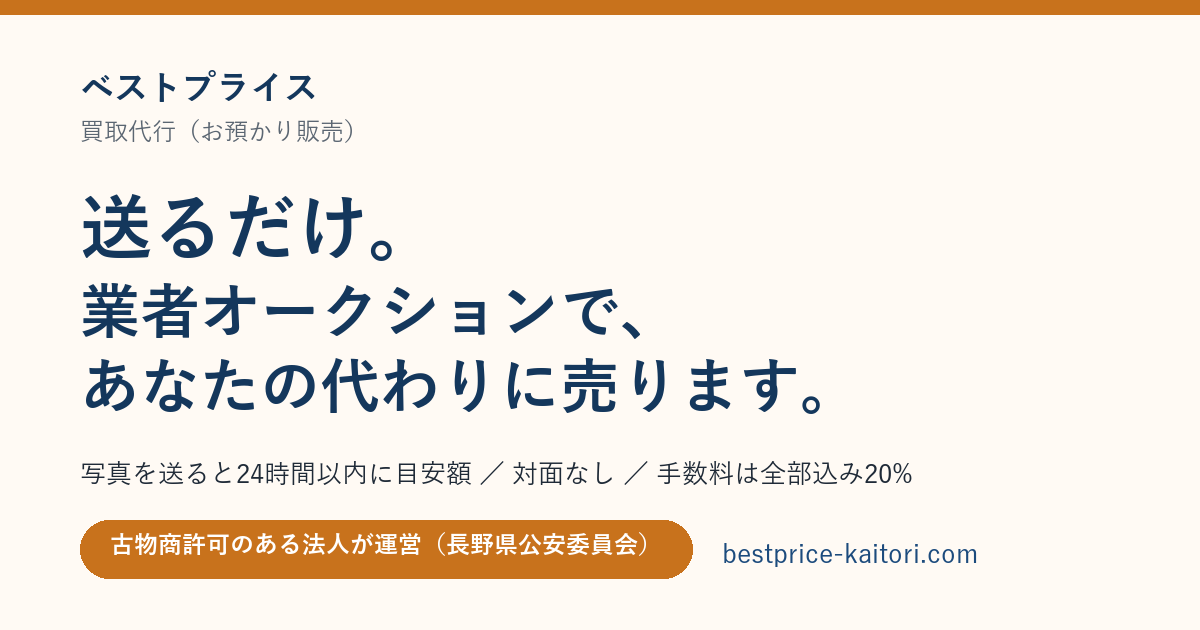
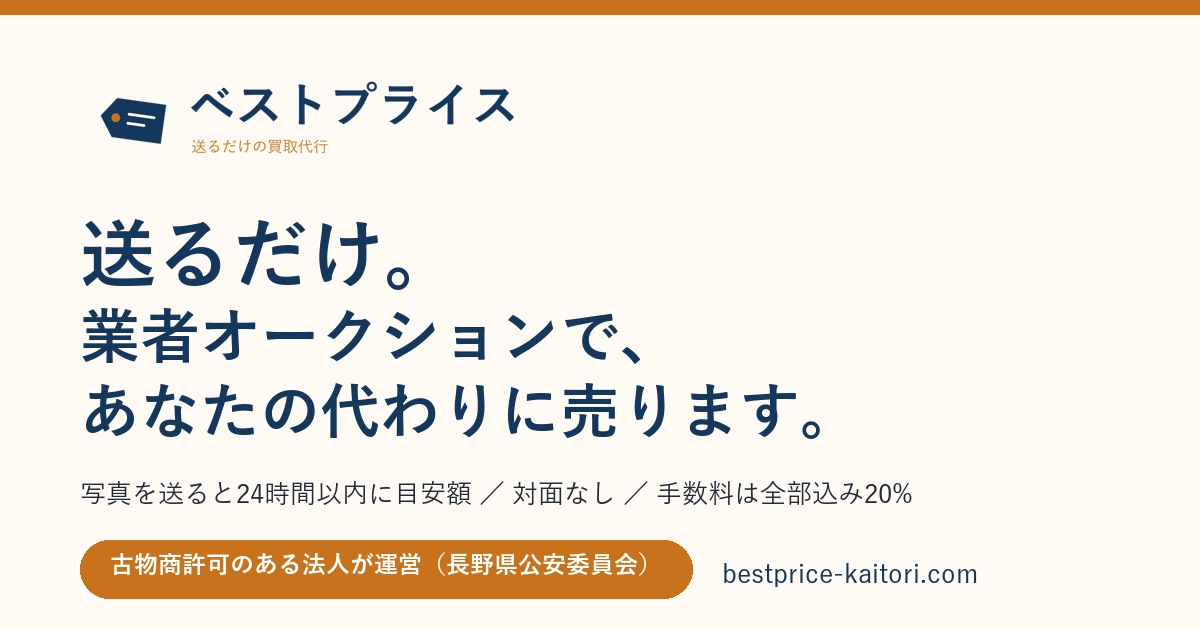
LP: ロゴ（値札マーク＋ワードマーク）・許可があるからできること（法人の許可5点）・会社シナジー・パートナーのカード
- assets/brand/logo.png / mark.png（PILで手組み・2色フラット）、favicon 3種、OG画像をロゴ入りで再生成
- #license: 許可証風カード（二重線＋赤い「許可」判）＋「許可があるから、できること」5点（会社の許可なので担当が代わっても続く／従業者証）
- #more: 運営会社（株式会社ベストトラスト・best-trust.biz）の本業と、買取を入口にした同じ窓口の説明。4枚目「知り合いのお店を紹介して、報酬を受け取る」（パートナープログラム）
- uragawa: 「10. 会社の許可だから、大きくできる」（6カード）／docs/DESIGN.md §11 に一次資料つきの表

Changed region(s): [[0.0617, 0.3016, 0.6783, 0.6937], [0.0617, 0.7238, 0.8325, 0.9651], [0.0617, 0.1206, 0.4317, 0.2413]]

diff --git a/uragawa/index.html b/uragawa/index.html
@@ -159,7 +159,7 @@
   </form>
 </div>
 <main class="page" id="main" hidden></main>
[2 lines of base64/hex data omitted]
 <script>
 (function(){
   var vault = JSON.parse(document.getElementById("vault").textContent);

diff --git a/index.html b/index.html
@@ -16,6 +16,9 @@
   <title>ベストプライス — 送るだけの買取代行（お預かり販売）</title>
   <meta name="description" content="写真を送るだけで、業者向けオークションでの落札目安を24時間以内に返信。対面なし・宅配で送るだけ・手数料は全部込み20%。古物商許可のある法人が運営。長野県諏訪・岡谷・塩尻・下諏訪から全国対応。" />
   <link rel="canonical" href="https://bestprice-kaitori.com/" />
+  <link rel="icon" href="/favicon.ico" sizes="32x32" />
+  <link rel="icon" href="/favicon-96x96.png" type="image/png" sizes="96x96" />
+  <link rel="apple-touch-icon" href="/apple-touch-icon.png" />
   <meta name="theme-color" content="#fffaf4" />
   <style>
     :root{--bg:#fffaf4;--band:#fff3e6;--ink:#1f2a37;--muted:#5b6672;--navy:#1c4b7d;--deep:#14375c;--orange:#c8721c;--line:#e8dccb;--ok:#2e7d32;--todo:#fff3a0}
@@ -28,6 +31,16 @@
     header.top .wrap{display:flex;align-items:center;justify-content:space-between;gap:12px;padding:10px 20px}
     .brand{font-weight:800;color:var(--deep);font-size:1.15rem;text-decoration:none;letter-spacing:.02em;line-height:1.2}
     .brand small{display:block;font-weight:500;font-size:.72rem;color:var(--muted)}
+    .brand img{display:block;height:44px;width:auto}
+    .lic-grid{display:grid;grid-template-columns:320px 1fr;gap:28px;align-items:start;margin-top:8px}
+    .lic-card{background:#fff;border:4px double var(--navy);padding:18px 20px 16px;position:relative;color:var(--deep)}
+    .lic-card .lic-title{margin:0 0 10px;font-weight:800;letter-spacing:.2em;text-align:center;border-bottom:1px solid var(--line);padding-bottom:8px}
+    .lic-card dl{margin:0;display:grid;grid-template-columns:auto 1fr;gap:6px 14px;font-size:.95rem}
+    .lic-card dt{color:var(--muted);font-weight:500}
+    .lic-card dd{margin:0;font-weight:700;font-variant-numeric:tabular-nums}
+    .lic-card .seal{position:absolute;right:14px;top:12px;width:58px;height:58px;border:3px solid #c1272d;color:#c1272d;border-radius:50%;display:grid;place-items:center;font-weight:900;font-size:1rem;transform:rotate(-12deg);opacity:.85;letter-spacing:.05em}
+    .lic-note{font-size:.82rem;color:var(--muted);margin:10px 0 0}
+    @media (max-width:720px){.lic-grid{grid-template-columns:1fr}}
     .btn{display:inline-block;padding:14px 22px;border-radius:999px;font-weight:700;text-decoration:none;text-align:center;border:2px solid transparent;line-height:1.3}
     .btn-primary{background:var(--orange);color:#fff}
     .btn-primary:hover{background:#a95f16}
@@ -99,7 +112,7 @@
 <body>
   <header class="top">
     <div class="wrap">
-      <a class="brand" href="#top"><span data-cfg="SERVICE_NAME">ベストプライス</span><small><span data-cfg="SERVICE_SUB">買取代行（お預かり販売）</span>・古物商許可 第<span data-cfg="LICENSE_NO"></span>号</small></a>
+      <a class="brand" href="#top"><img src="assets/brand/logo.png" alt="ベストプライス 送るだけの買取代行" width="162" height="44" /></a>
       <a class="btn btn-primary btn-sm" data-cta href="#contact">写真を送る（無料）</a>
     </div>
   </header>
@@ -132,7 +145,35 @@
       </div>
     </section>
 
-    <section id="flow" class="band">
+    <section id="license" class="band">
+      <div class="wrap">
+        <div class="lic-grid">
+          <div class="lic-card" aria-label="古物商許可の表示">
+            <span class="seal">許可</span>
+            <p class="lic-title">古物商許可</p>
+            <dl>
+              <dt>許可番号</dt><dd>第<span data-cfg="LICENSE_NO"></span>号</dd>
+              <dt>許可</dt><dd><span data-cfg="PUBLIC_SAFETY_COMMISSION"></span></dd>
+              <dt>名称</dt><dd><span data-cfg="COMPANY_NAME"></span></dd>
+            </dl>
+            <p class="lic-note">古物営業法に基づく表示。詳しくは <a href="legal.html">法定表示</a>。</p>
+          </div>
+          <div>
+            <h2>許可があるから、できること</h2>
+            <p class="lead">使った物を売り買いする仕事は、警察の許可がないとできません。うちは許可のある法人です。だから、次のことができます。</p>
+            <ul class="checks">
+              <li><b>プロだけの市場で売れる</b> — 一般の人は入れない業者オークションに、あなたの代わりに出品します。会社でないと入れない市場もあり、売り先が広いです。値段はプロ同士の競りで決まります。</li>
+              <li><b>「お預かり販売」ができる</b> — 預かって売る（委託）も、許可が要る仕事です。だから先にお金を出さず、売れてから8割を振り込めます。</li>
+              <li><b>本人確認と帳簿を法律どおり</b> — 身分証のコピー・本人名義の口座・帳簿への記録。盗品が混ざらない市場に出すための決まりで、送る人の安心にもなります。</li>
+              <li><b>会社の許可なので、担当が代わっても続く</b> — 1人の資格ではなく、会社が持っている許可です。スタッフは従業者証を持ち、全員が同じルールで動きます。</li>
+              <li><b>許可番号を表示して運営</b> — 番号・法人名・公安委員会名をこのページに出しています。明細を全件お送りし、出品先も隠しません。</li>
+            </ul>
+          </div>
+        </div>
+      </div>
+    </section>
+
+    <section id="flow">
       <div class="wrap">
         <h2>流れは5つ。対面はありません。</h2>
         <p class="lead">「買取店に持ち込む」代わりに、私たちが業者向けのオークションであなたの代わりに売ります。</p>
@@ -219,13 +260,14 @@
     <section id="more" class="band">
       <div class="wrap">
         <h2>送る以外にも、できること</h2>
-        <p class="lead">うちは買取代行のほかに、お店や会社向けの仕事もしています。品物を送ってくれた方も、お店をやっている方も、そのまま使えます。</p>
+        <p class="lead">運営は <a href="https://best-trust.biz/" target="_blank" rel="noopener">株式会社ベストトラスト</a>。「主役は、あなたのブランド。」を掲げ、風評・検索サジェスト対策、ITインフラ、AI時代のサイト診断を本業でやっている裏方の会社です。だから買取を入口に、お店や会社の困りごとにも同じ窓口で応じられます。</p>
         <div class="grid more-grid">
           <div class="card"><img class="card-img" src="assets/more/more1.webp" alt="お店のカウンターに置かれたノートパソコン" width="768" height="512" loading="lazy" /><h3>お店の口コミ・サイトを無料で診断</h3><p>Googleの口コミの状態、サイトの安全性、社名で検索したときに何が出るか。店名やURLを入れるだけで確認できます。</p><p class="links"><a href="https://reviewcheck.jp/" target="_blank" rel="noopener">口コミチェック</a>・<a href="https://web-health-check.link/" target="_blank" rel="noopener">WEBサイト健康診断</a>・<a href="https://malwarecheck.site/" target="_blank" rel="noopener">マルウェアチェック</a><br />悪い口コミで困っている方は <a href="https://removal-seven.vercel.app/" target="_blank" rel="noopener">評判改善の相談（レビューブースト）</a></p></div>
           <div class="card"><img class="card-img" src="assets/more/more2.webp" alt="お店の倉庫に積まれた在庫の箱" width="768" height="512" loading="lazy" /><h3>お店の在庫・備品の処分も「送るだけ」</h3><p>閉店・改装・季節替えで出た在庫や備品も、同じ流れでお預かりして業者の競りに出します。先にお金を出す必要はありません。まとめての相談もどうぞ。</p><p class="links"><a data-cta-shop href="#contact">お店のことを相談する</a></p></div>
           <div class="card"><img class="card-img" src="assets/more/more3.webp" alt="お店のカウンターに置かれたスマホと案内カード" width="768" height="512" loading="lazy" /><h3>お店の「応援ページ」を作ります</h3><p>来店したお客さんがタップだけで口コミを書ける、お店専用のページ。LINEの案内や買取の受付もひとつにまとめます。</p><p class="links"><a href="https://removal-seven.vercel.app/review-tool.html" target="_blank" rel="noopener">タップで口コミが完成する実物を試す</a>・<a data-cta-shop href="#contact">お店のことを相談する</a></p></div>
+          <div class="card"><img class="card-img" src="assets/more/more4.webp" alt="スマホと手帳と小銭" width="768" height="512" loading="lazy" /><h3>知り合いのお店を紹介して、報酬を受け取る</h3><p>登録は無料。お店が成約すると成約報酬、続く間は継続報酬が入り、管理画面で振込予定額を確認できます。「売る」以外の稼ぎ方です。</p><p class="links"><a href="https://partner.reverse-re-birth-hack.com/" target="_blank" rel="noopener">パートナープログラムを見る</a></p></div>
         </div>
-        <p class="note" style="margin-top:14px">送った後も: 2回目からは手数料 <span data-cfg-pct="REPEAT_FEE_RATE">17%</span>。ご紹介があれば最低 <span data-cfg-pct="MIN_FEE_RATE">14%</span> まで下がります。知り合いのお店には、上の無料診断をそのまま紹介できます。お店を紹介して報酬を受け取りたい方は、<a href="https://partner.reverse-re-birth-hack.com/" target="_blank" rel="noopener">パートナープログラム（登録無料・管理画面で報酬を確認できます）</a>へ。</p>
+        <p class="note" style="margin-top:14px">送った後も: 2回目からは手数料 <span data-cfg-pct="REPEAT_FEE_RATE">17%</span>。ご紹介があれば最低 <span data-cfg-pct="MIN_FEE_RATE">14%</span> まで下がります。知り合いのお店には、上の無料診断をそのまま紹介できます。</p>
       </div>
     </section>
 

diff --git a/report.html b/report.html
@@ -5,6 +5,8 @@
   <meta name="viewport" content="width=device-width, initial-scale=1, viewport-fit=cover" />
   <meta name="robots" content="noindex, nofollow" />
   <title>目安額と売り先くらべ — ベストプライス</title>
+  <link rel="icon" href="/favicon.ico" sizes="32x32" />
+  <link rel="apple-touch-icon" href="/apple-touch-icon.png" />
   <!--
     目安額の返事の「ページ版」。payload は location.hash（# の後ろ）の base64url(JSON)。
     設計: docs/LP-PROFIT-DESIGN.md（A〜G）。hash はサーバーに送られない＝ログにも残らない。
@@ -62,7 +64,7 @@
 <body>
   <header class="top">
     <div class="wrap">
-      <a class="brand" href="index.html"><span data-cfg="SERVICE_NAME">ベストプライス</span><small>目安額と、ほかの売り方との比べ方</small></a>
+      <a class="brand" href="index.html"><img src="assets/brand/logo.png" alt="ベストプライス 送るだけの買取代行" width="132" height="36" style="display:block;height:36px;width:auto" /></a>
       <a href="index.html" class="note">トップへ</a>
     </div>
   </header>

diff --git a/docs/DESIGN.md b/docs/DESIGN.md
@@ -338,3 +338,24 @@ B. 今回は見送る（費用はかかりません）
 
 **順番:** 集客（動画・既存のつながり）→ 受付（メール→フォーム→LINE Harness）→ 運営（4回連絡の自動化）→ お金（紹介報酬の流用）。すべて「発送件数」が出てから段を上げる（§0-2 の階段と同じ）。
 | 横展開（2026-09-08 ユーザー指摘） | `reviewcheck.jp`（口コミチェック＝風評チェック）、`removal`（Google評判・レビューブースト＝口コミ相談）、`web-health-check.link`／`ai-health-check.link`／`malwarecheck.site`（診断） | 買取の相談窓口（LINE・メール）に来た「お店・会社をやっている人」を、風評チェック・口コミ相談・診断へ案内する。逆向き（診断に来たお店の在庫・備品処分→買取代行）もある。窓口と返信の道具は同じ |
+
+---
+
+## 11. 法人の許可だからスケールできる（2026-09-08・一次資料で確認）
+
+Googleの「個人が古物営業許可を取ると得られるメリット」を**法人に置き換える**と、増えるものは次のとおり。
+
+| 事実 | 出典 | どう効くか |
+|---|---|---|
+| 古物商の定義に「委託を受けて売買」が含まれる（古物営業法2条2項） | 古物営業法（衆議院法制局） | お預かり販売（委託）は許可の範囲内。先にお金を出さないモデルが法律上成立 |
+| 許可は主体に一身専属。代表個人の許可では会社は営業できない。**会社名義の許可は代表が代わっても会社に残る** | マネーフォワード会社設立／古物商許可ナビ／hayward-law | 担当者・代表が代わっても事業が続く。個人事業より引き継ぎに強い |
+| 従業員に行商させるときは**行商従業者証**（法11条2項）。当社の許可証は「行商: する」 | hayward-law（条文）／警察庁 解釈基準（2024） | 拠点を増やさずに人を増やせる（集荷・催事）。全員が同じ本人確認・台帳のルール |
+| 営業所ごとに**管理者**（常勤）を置けば営業所を増やせる（変更届） | 古物商許可サポート／許認可支援ブログ | 拠点追加＝全国対応の根拠。管理者の常勤要件に注意 |
+| **法人でなければ参加できない古物市場もある** | 古物商許可の教科書 | 売り先（市場）が個人より広い |
+| **インボイス古物商特例**: 適格請求書発行事業者以外（一般消費者）から**棚卸資産として買い受けた**古物は、帳簿のみで仕入税額控除 | 警察庁PDF／国税庁Q&A／マネーフォワード | ★委託には無関係（仕入が無い）。**買取レーン（§8「手元資金30万 or 月20件」）を始めた時**に消費税で効く。LPには書かない |
+| 出張買取は営業所か相手の住所でのみ可。特商法の訪問購入規制あり | style-eco／fujita-office | 今は宅配のみ。出張を始めるなら訪問購入のクーリングオフ・書面交付を先に整える |
+
+**LPへの反映（#license 節・5点）:** プロだけの市場（法人だけの市場もある）／お預かり販売ができる／本人確認と帳簿／会社の許可なので担当が代わっても続く（従業者証）／許可番号を表示して運営。
+**書かないこと:** 「番号は警察で確認できる」（照会可否を未裏取り）、インボイス特例（委託に無関係）、出張買取（方針外）。
+
+**買取レーン開始時のチェック（先に済ませる）:** 管理者の常勤／行商従業者証の様式（施行規則 別記様式第12号）／特商法 訪問購入の書面・クーリングオフ／古物商特例の帳簿5項目（相手の氏名住所・取引日・品目・対価・特例適用の旨）。
